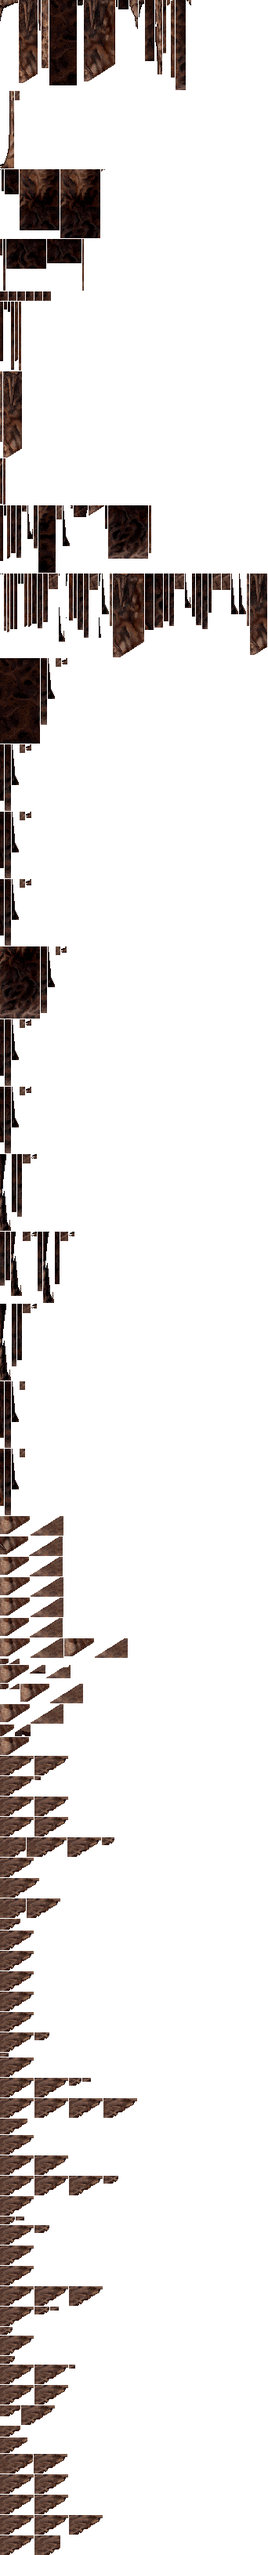
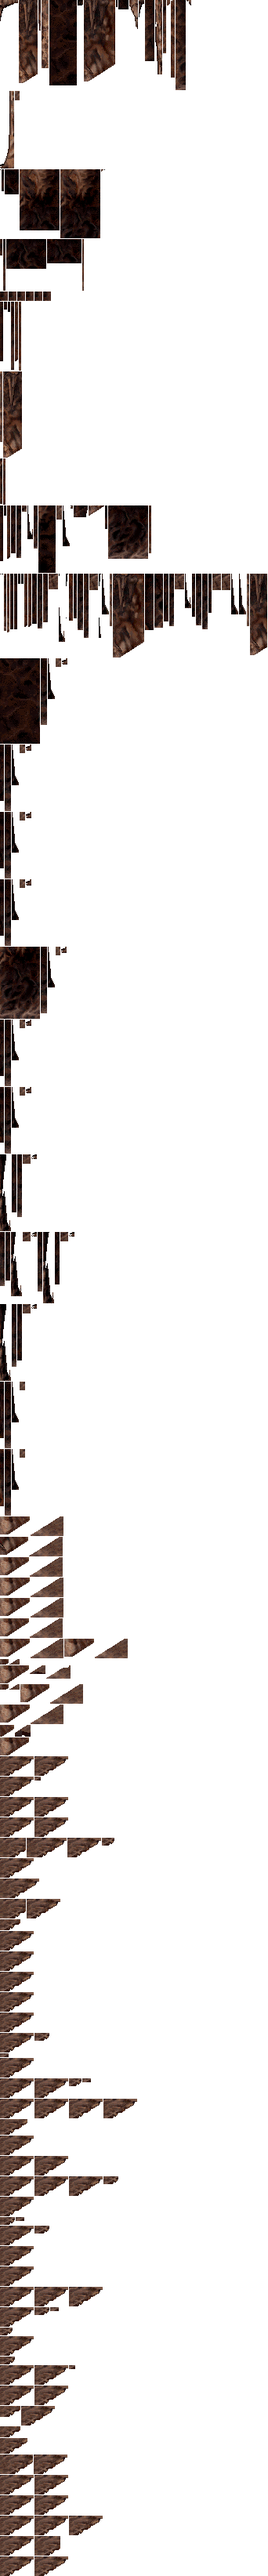
Blend approved right floor tips in level 5 room 4

Changed region(s): [[0.0, 0.031, 1.0, 1.0], [0.3801, 0.6194, 0.4971, 0.6504]]

diff --git a/pop2/cavern_retouch.py b/pop2/cavern_retouch.py
@@ -88,7 +88,7 @@ def retouched_door_sprite(level, room, command, source):
 def retouched_sprite(room, command, source, *, level_number=3):
     approved = (room in (0, 1, 2, 3, 4, 5, 6, 7, 8, 9, 10, 11, 12, 13, 14, 15, 16, 18, 20, 21, 23, 24, 25, 26, 27, 29, 30, 31) if level_number == 3
                 else room in (0, 1, 2, 4, 5, 6, 8, 9, 11, 12, 13, 14, 15, 16, 17, 21, 22, 24, 25, 26, 27) if level_number == 4
-                else level_number == 5 and room in (0, 1, 5, 6, 8, 10, 12, 13, 14, 15, 16, 18, 21, 22, 24))
+                else level_number == 5 and room in (0, 1, 3, 5, 6, 8, 10, 12, 13, 14, 15, 16, 18, 21, 22, 24))
     if not approved or len(command) < 8 or command[7] != 4:
         return source
     key = (room, command[1], command[2], command[3], command[4])

diff --git a/tests/test_level5_cavern_retouch.py b/tests/test_level5_cavern_retouch.py
@@ -38,7 +38,7 @@ APPROVED = {
 class BundledLevelFiveArtworkTests(unittest.TestCase):
     def test_approved_scope_and_changed_source_guards(self):
         assets = retouch_assets(5)
-        self.assertEqual(len(assets), 68)
+        self.assertEqual(len(assets), 70)
         self.assertEqual({key[0] for key in assets}, (set(APPROVED) | right_tip_rooms(5)))
         for key, (record, image) in assets.items():
             room, shape, x, bottom, mode = key

diff --git a/docs/CAVERN_ARTWORK.md b/docs/CAVERN_ARTWORK.md
@@ -391,3 +391,4 @@ artwork; no original golden or mask assertion is discarded.
[4 lines of base64/hex data omitted]
